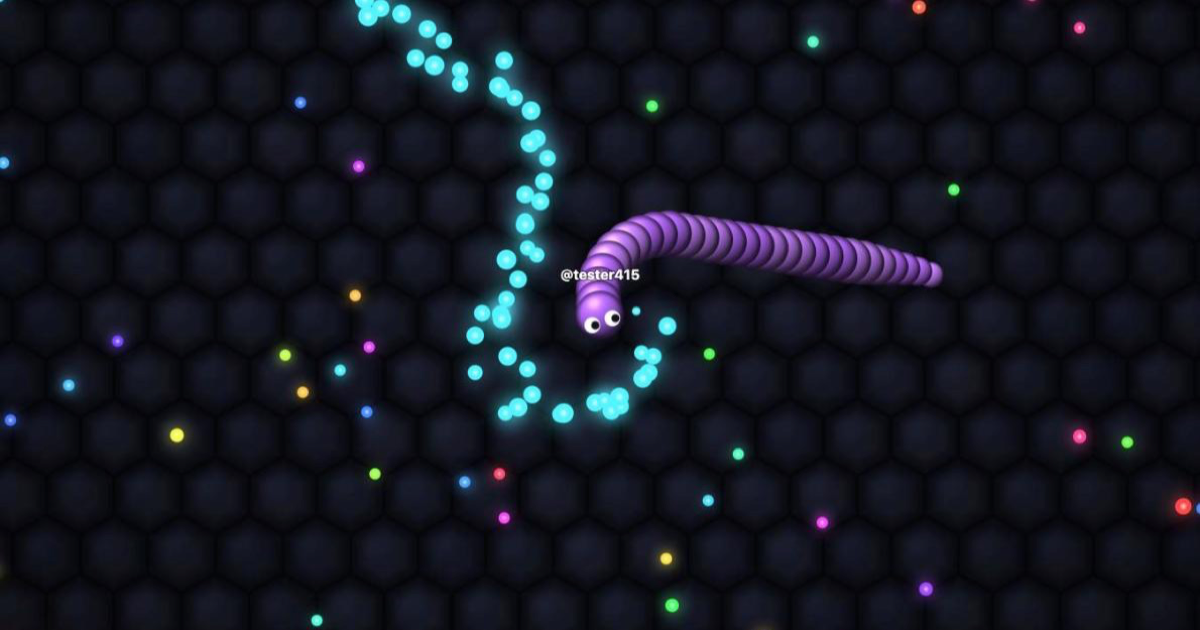
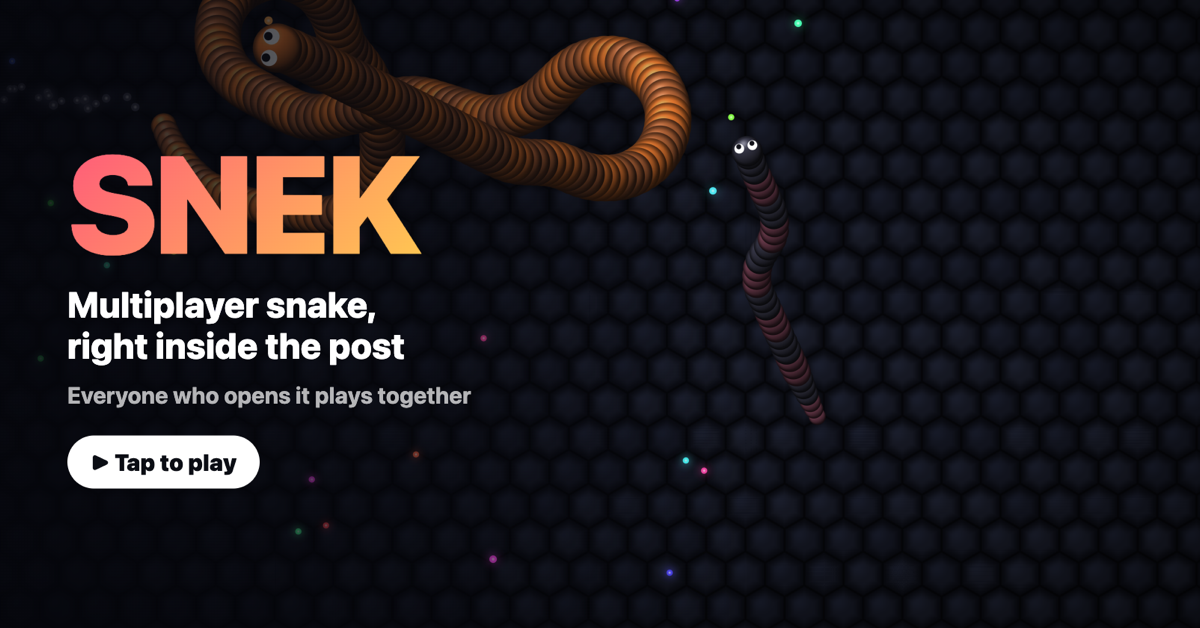
Clean preview card, autopilot while menus are open, card capture tooling
- New public/card.png captured from the live game (screenshot mode #shot
  hides UI) via public/dev-card.html; card URL is versioned for X's cache.
- Opening the name editor or sponsor panel puts your snake on autopilot
  until your next steering input, so you don't die while typing or paying.

diff --git a/src/client/main.ts b/src/client/main.ts
@@ -72,8 +72,11 @@ ui.onSponsor = () => void sponsorPanel?.show();
 ui.shareUrl = `${location.origin}/r/${room}`;
 
 const net = new Net(room);
+// #shot: spectate only with no UI, for capturing the preview card image.
+const shot = location.hash === "#shot";
+if (shot) document.body.classList.add("shot");
 let playing = false;
-let wantJoin = true;
+let wantJoin = !shot;
 let myName = "";
 let W = 1, H = 1, DPR = 1;
 
@@ -229,8 +232,14 @@ function drawSnake(s: CSnake, alpha: number, isMe: boolean): void {
 }
 
 let lastError = "";
+let menuWasOpen = false;
 
 function frame(): void {
+  // Card capture can hold the current frame (shot mode only).
+  if (shot && (window as unknown as { __freeze?: boolean }).__freeze) {
+    requestAnimationFrame(frame);
+    return;
+  }
   try {
     draw();
   } catch (e) {
@@ -248,7 +257,12 @@ function draw(): void {
   last = now;
 
   input.update(dt);
-  if (playing && input.touched) net.input(input.angle, input.boost, now);
+  // While the name editor or sponsor panel is open, the server autopilots
+  // the snake; steering resumes (and takes over) once the menu closes.
+  const menuOpen = ui.editing || !!sponsorPanel?.open;
+  if (menuOpen && !menuWasOpen && playing) net.send({ t: "auto" });
+  menuWasOpen = menuOpen;
+  if (playing && input.touched && !menuOpen) net.input(input.angle, input.boost, now);
   ui.showHint(playing && !input.touched && !ui.editing && !sponsorPanel?.open);
 
   const alpha = state.lastAt ? Math.min(1, (now - state.lastAt) / state.interval) : 1;
@@ -265,7 +279,7 @@ function draw(): void {
     camX += (state.camX - camX) * k;
     camY += (state.camY - camY) * k;
   }
-  const focusMass = me ? me.mass : hud.top[0]?.m ?? 200;
+  const focusMass = me ? me.mass : shot ? 140 : hud.top[0]?.m ?? 200;
   const targetScale = Math.min(W, H) / 2 / viewHalfOf(focusMass);
   scaleCss += (targetScale - scaleCss) * (1 - Math.exp(-dt * 3));
   const scale = scaleCss * DPR;
@@ -319,4 +333,7 @@ function draw(): void {
 requestAnimationFrame(frame);
 
 // Playtest/debug handle.
-(window as unknown as { __snek: object }).__snek = { net, state, input, ui };
+(window as unknown as { __snek: object }).__snek = {
+  net, state, input, ui,
+  view: () => ({ camX, camY, scale: scaleCss, W, H }),
+};

diff --git a/public/dev-card.html b/public/dev-card.html
@@ -1,0 +1,32 @@
+<!doctype html>
+<html lang="en">
+<head>
+<meta charset="utf-8">
+<meta name="viewport" content="width=device-width,initial-scale=1">
+<title>Card capture</title>
+<style>
+  /* Layout used to capture public/card.png (the X preview image). */
+  html, body { margin: 0; background: #000; }
+  .card { position: relative; width: 1604px; height: 840px; overflow: hidden; font-family: ui-rounded, "SF Pro Rounded", system-ui, sans-serif; }
+  iframe { position: absolute; inset: 0; width: 100%; height: 100%; border: 0; }
+  .shade { position: absolute; inset: 0; background: linear-gradient(90deg, rgba(5,6,12,.88) 0%, rgba(5,6,12,.55) 38%, rgba(5,6,12,0) 62%); pointer-events: none; }
+  .copy { position: absolute; left: 90px; top: 50%; transform: translateY(-50%); color: #fff; pointer-events: none; }
+  .logo { font-size: 185px; font-weight: 900; letter-spacing: -6px; line-height: .9; background: linear-gradient(135deg, #ff5a7a, #ffd34d); -webkit-background-clip: text; background-clip: text; color: transparent; }
+  .tag { margin-top: 26px; font-size: 48px; font-weight: 800; line-height: 1.15; }
+  .sub { margin-top: 20px; font-size: 31px; font-weight: 700; color: rgba(255,255,255,.7); }
+  .pill { display: inline-block; margin-top: 36px; padding: 17px 31px; border-radius: 999px; background: #fff; color: #0b0d14; font-size: 31px; font-weight: 900; }
+</style>
+</head>
+<body>
+<div class="card">
+  <iframe src="/play/main#shot"></iframe>
+  <div class="shade"></div>
+  <div class="copy">
+    <div class="logo">SNEK</div>
+    <div class="tag">Multiplayer snake,<br>right inside the post</div>
+    <div class="sub">Everyone who opens it plays together</div>
+    <div class="pill">▶ Tap to play</div>
+  </div>
+</div>
+</body>
+</html>

diff --git a/src/server/index.ts b/src/server/index.ts
@@ -22,6 +22,9 @@ export { Arena, Meta };
 
 const ROOM_RE = /^[a-z0-9-]{1,32}$/;
 
+// Bump when public/card.png changes; X caches preview images by URL.
+const CARD_VERSION = 2;
+
 const FRAME_ANCESTORS =
   "frame-ancestors 'self' https://x.com https://*.x.com https://twitter.com https://*.twitter.com";
 
@@ -45,14 +48,14 @@ function page(origin: string, room: string, embed: boolean, env: Env): string {
 <meta name="twitter:card" content="player">
 <meta name="twitter:title" content="${esc(title)}">
 <meta name="twitter:description" content="${esc(desc)}">
-<meta name="twitter:image" content="${origin}/card.png">
+<meta name="twitter:image" content="${origin}/card.png?v=${CARD_VERSION}">
 <meta name="twitter:player" content="${playerUrl}">
 <meta name="twitter:player:width" content="480">
 <meta name="twitter:player:height" content="480">
 <meta property="og:type" content="website">
 <meta property="og:title" content="${esc(title)}">
 <meta property="og:description" content="${esc(desc)}">
-<meta property="og:image" content="${origin}/card.png">
+<meta property="og:image" content="${origin}/card.png?v=${CARD_VERSION}">
 <meta property="og:url" content="${shareUrl}">
 <link rel="icon" href="/favicon.svg">
 <link rel="stylesheet" href="/style.css">

diff --git a/scripts/sim-test.ts b/scripts/sim-test.ts
@@ -41,6 +41,11 @@ function steer(cid: number, angle: number, boost: boolean) {
   world.onMessage(cid, buf);
 }
 
+world.onMessage(a, JSON.stringify({ t: "auto" }));
+const autoOn = !!world.clients.get(a)!.snake?.ai;
+steer(a, 0, false);
+const autoOff = !world.clients.get(a)!.snake?.ai;
+
 const ticks = Math.round(SECONDS / DT);
 const times: number[] = [];
 let maxErr = 0;
@@ -117,6 +122,7 @@ const report = {
 console.log(JSON.stringify(report, null, 2));
 
 const fails: string[] = [];
+if (!autoOn || !autoOff) fails.push(`menu autopilot: on=${autoOn} off-after-input=${autoOff}`);
 if (nameChecks.includes(false)) fails.push(`name cleaning: ${JSON.stringify(nameChecks)}`);
 if (p99 > 8) fails.push(`tick p99 ${p99.toFixed(2)}ms > 8ms`);
 if (maxSnakes < 10) fails.push("bots did not populate the arena");

diff --git a/public/style.css b/public/style.css
@@ -154,3 +154,5 @@ canvas { position: fixed; inset: 0; width: 100%; height: 100%; display: block; }
 .wallet { display: block; text-align: center; text-decoration: none; box-sizing: border-box; margin-top: 10px; }
 body.info { display: grid; place-items: center; min-height: 100vh; padding: 16px; box-sizing: border-box; touch-action: auto; overflow: auto; }
 body.info .dt { text-align: left; }
+
+body.shot #ui, body.shot #hud { display: none !important; }

diff --git a/src/server/world.ts b/src/server/world.ts
@@ -177,6 +177,9 @@ export class World {
         return;
       }
       if (m.t === "view") c.aspect = clampAspect(m.aspect);
+      // A menu is open on the client: let the bot brain drive until the
+      // player's next steering input takes control back.
+      else if (m.t === "auto" && c.snake && !c.snake.ai) c.snake.ai = makeBrain();
       return;
     }
     const b = new Uint8Array(data);

diff --git a/src/shared/protocol.ts b/src/shared/protocol.ts
@@ -3,7 +3,7 @@
 // client -> server
 //   INPUT  u8 type, u16 angle (0..65535 = 0..2pi), u8 boost
 //   text   "ping" | JSON {t:"join",name?,guest,skin,aspect} | {t:"name",name,guest}
-//          | {t:"view",aspect}
+//          | {t:"view",aspect} | {t:"auto"} (autopilot while a menu is open)
 //
 // server -> client
 //   TICK   u8 type, u32 tick, u16 myId, f32 camX, f32 camY,
